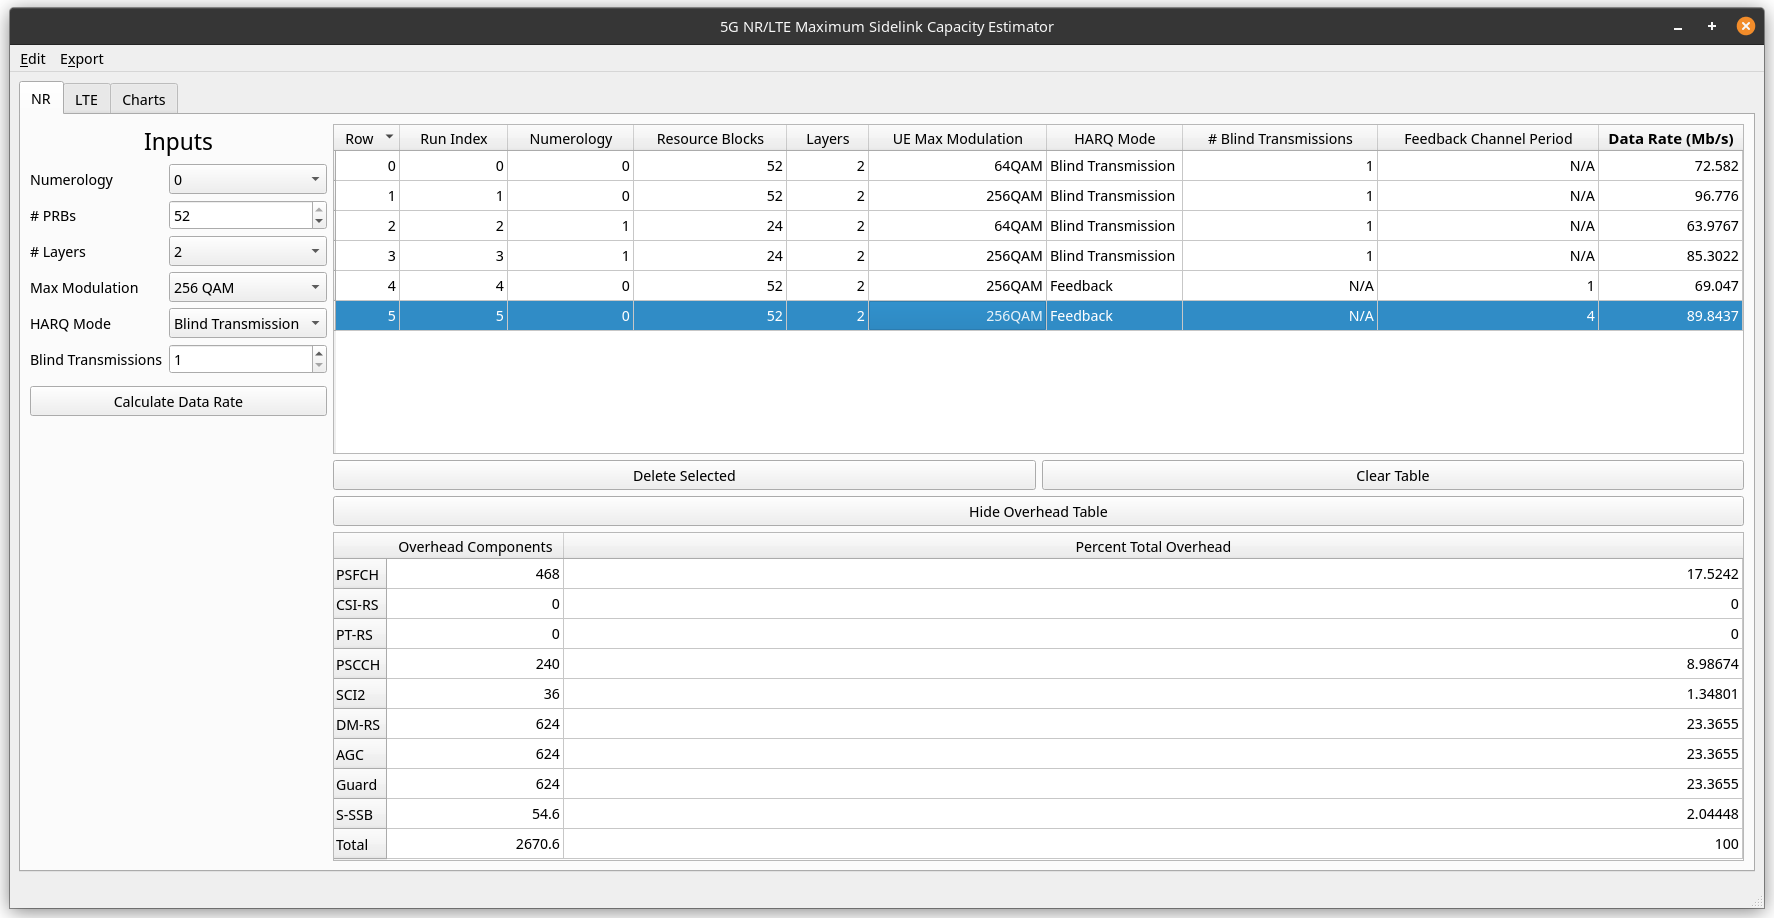
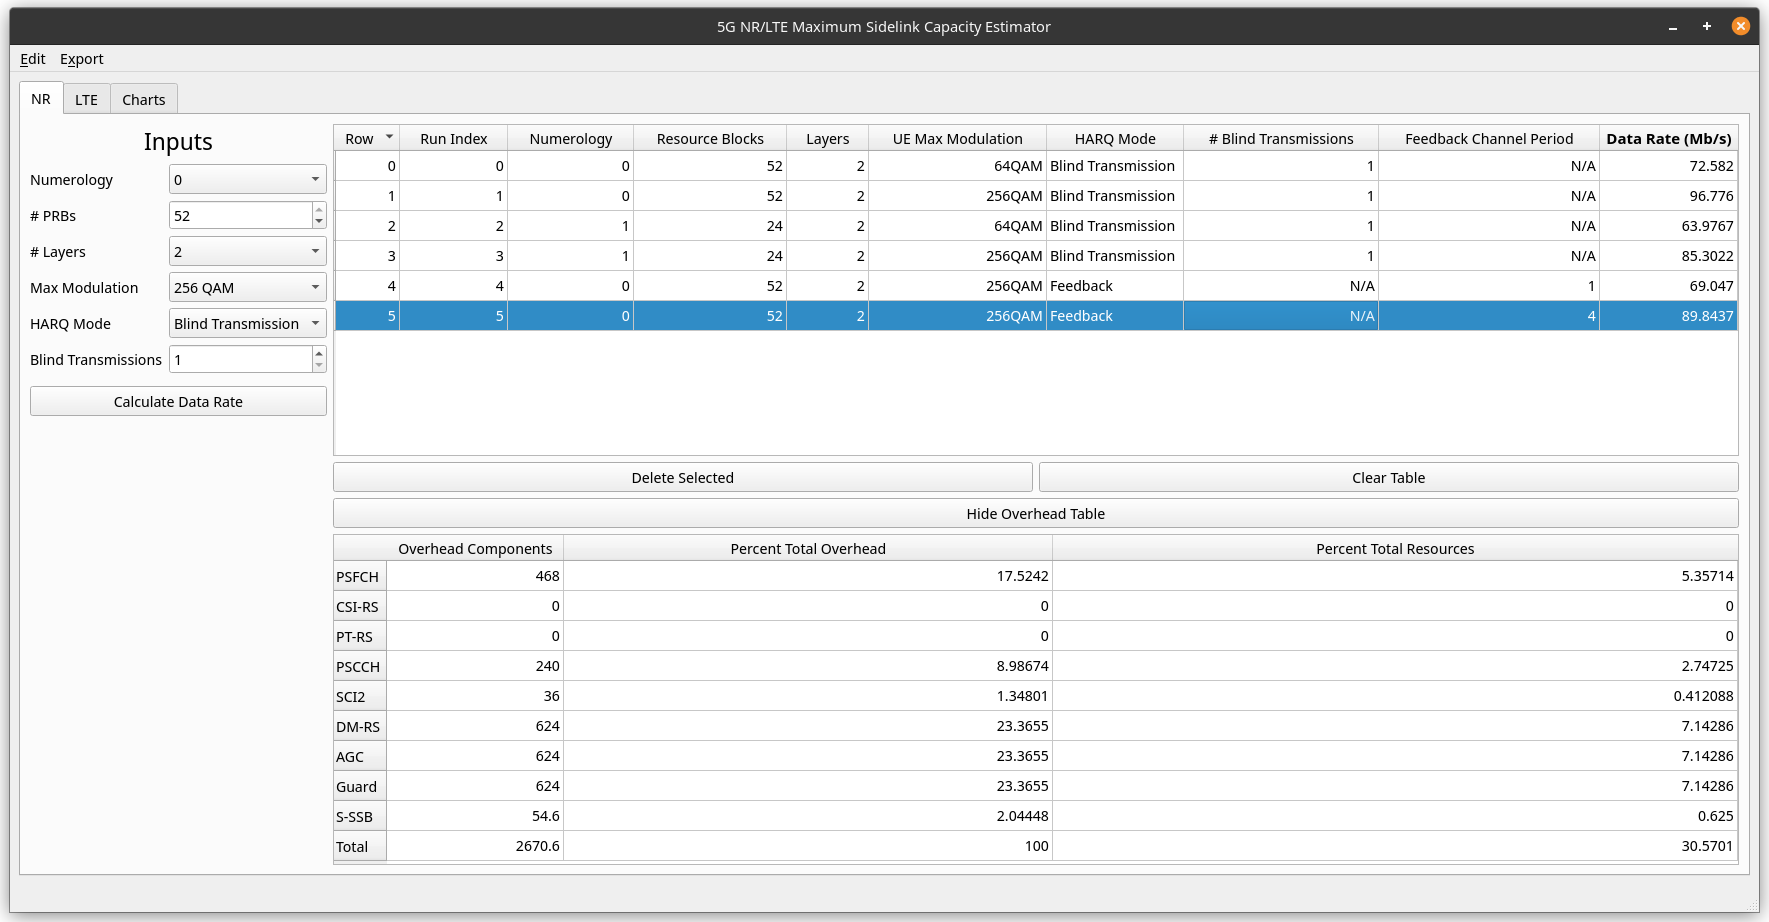
Add percent total overhead to overhead table

diff --git a/gui.py b/gui.py
@@ -446,7 +446,7 @@ class OverheadTableModel(QAbstractTableModel):
         return 10
 
     def columnCount(self, parent: Union[QtCore.QModelIndex, QtCore.QPersistentModelIndex] = ...) -> int:
-        return 2
+        return 3
 
     def data(self, index: Union[QtCore.QModelIndex, QtCore.QPersistentModelIndex],
              role: int = ...) -> Any:
@@ -496,6 +496,27 @@ class OverheadTableModel(QAbstractTableModel):
                     return self._currentResult.s_ssb / self._currentResult.overhead_total * 100
                 elif index.row() == 9:
                     return 100.00
+            elif index.column() == 2:
+                if index.row() == 0:
+                    return self._currentResult.psfch / self._currentResult.resource_total * 100
+                elif index.row() == 1:
+                    return self._currentResult.csi_rs / self._currentResult.resource_total * 100
+                elif index.row() == 2:
+                    return self._currentResult.pt_rs / self._currentResult.resource_total * 100
+                elif index.row() == 3:
+                    return self._currentResult.pscch / self._currentResult.resource_total * 100
+                elif index.row() == 4:
+                    return self._currentResult.sci2 / self._currentResult.resource_total * 100
+                elif index.row() == 5:
+                    return self._currentResult.dm_rs / self._currentResult.resource_total * 100
+                elif index.row() == 6:
+                    return self._currentResult.agc / self._currentResult.resource_total * 100
+                elif index.row() == 7:
+                    return self._currentResult.guard / self._currentResult.resource_total * 100
+                elif index.row() == 8:
+                    return self._currentResult.s_ssb / self._currentResult.resource_total * 100
+                elif index.row() == 9:
+                    return self._currentResult.overhead_total / self._currentResult.resource_total * 100
 
     def headerData(self, section: int, orientation: QtCore.Qt.Orientation, role: int = ...) -> Any:
         if role != Qt.DisplayRole:
@@ -528,6 +549,8 @@ class OverheadTableModel(QAbstractTableModel):
                 return "Overhead Components"
             elif section == 1:
                 return "Percent Total Overhead"
+            elif section == 2:
+                return "Percent Total Resources"
 
     def set_result(self, nr_result: NrResult):
         self._currentResult = nr_result
